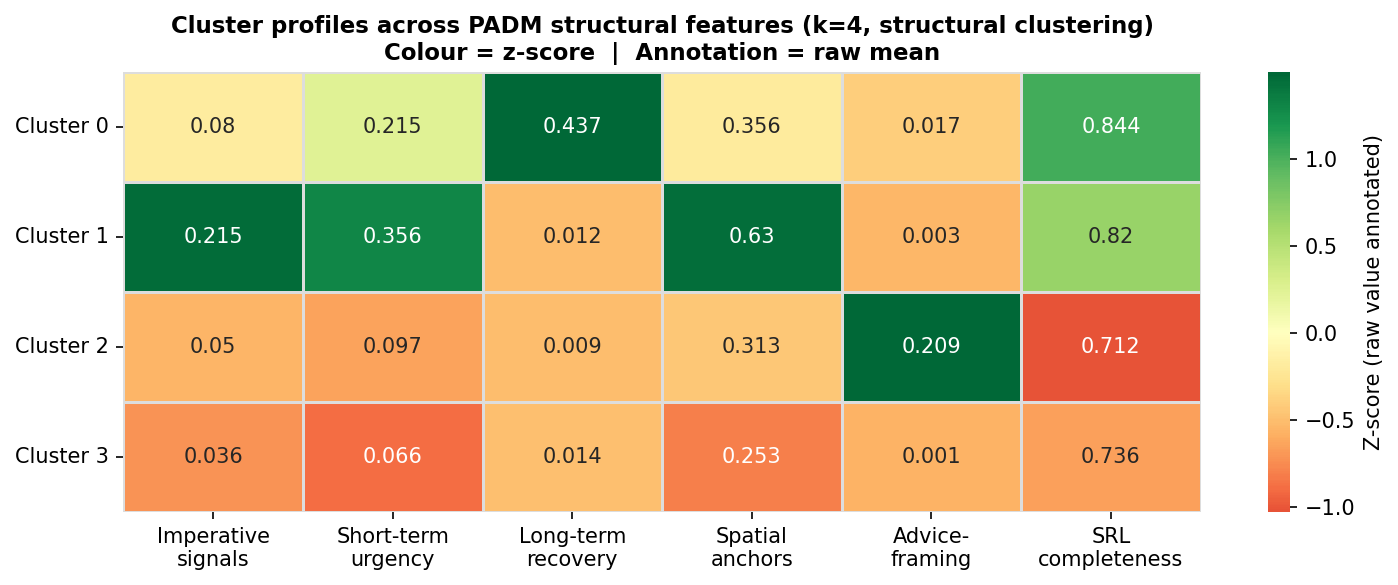
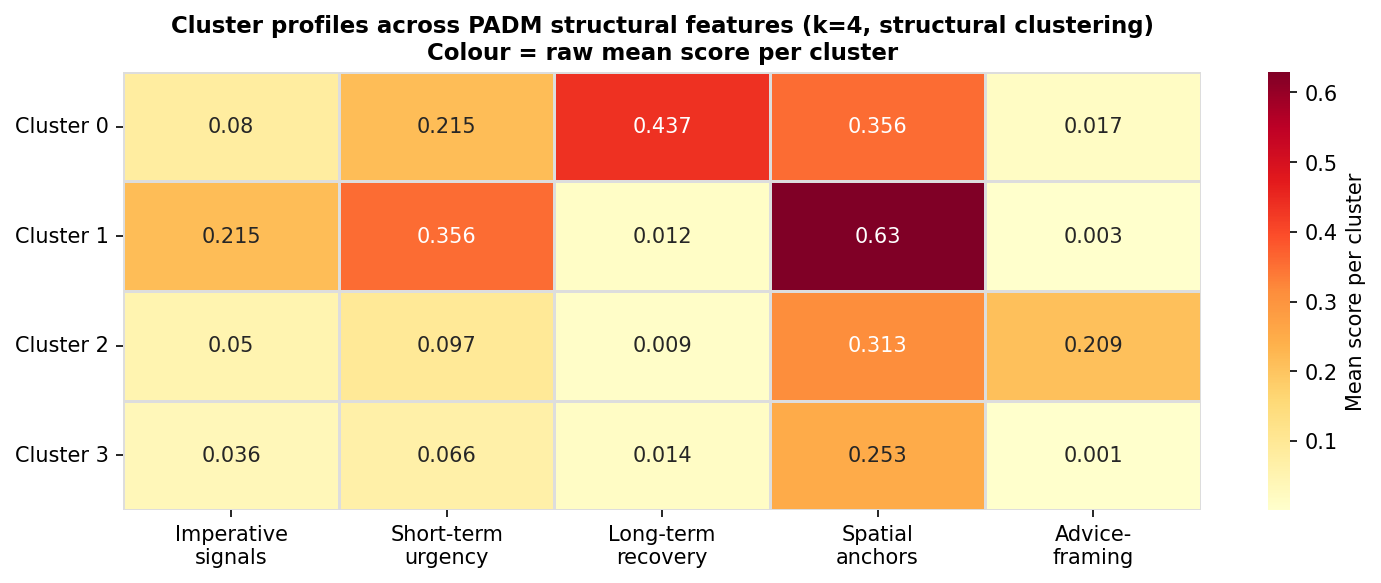
new generalizations

diff --git a/generate_visualizations.py b/generate_visualizations.py
@@ -194,7 +194,6 @@ def plot_padm_components(df: pd.DataFrame) -> None:
         'Imperative signals':  'mean_imperative_count',
         'Short-term urgency':  'mean_short_term_count',
         'Spatial anchors':     'mean_spatial_count',
-        'SRL completeness':    'mean_srl_complete',
         'Advice-framing':      'mean_advice',
     }
     missing = [c for c in components.values() if c not in df.columns]
@@ -325,24 +324,20 @@ def plot_cluster_padm_heatmap(df: pd.DataFrame) -> None:
         'mean_long_term_count':  'Long-term\nrecovery',
         'mean_spatial_count':    'Spatial\nanchors',
         'mean_advice':           'Advice-\nframing',
-        'mean_srl_complete':     'SRL\ncompleteness',
     }
     available = {k: v for k, v in feature_cols.items() if k in cs.columns}
     heat = cs[[*available.keys()]].rename(columns=available).astype(float)
 
-    # z-score each column so differences are visible across different scales
-    heat_z = (heat - heat.mean()) / heat.std().replace(0, 1)
-
     fig, ax = plt.subplots(figsize=(10, 4))
     sns.heatmap(
-        heat_z, ax=ax, cmap='RdYlGn', center=0,
+        heat, ax=ax, cmap='YlOrRd',
         annot=heat.round(3), fmt='g',
         linewidths=0.5, linecolor='#dddddd',
-        cbar_kws={'label': 'Z-score (raw value annotated)'},
+        cbar_kws={'label': 'Mean score per cluster'},
     )
     ax.set_title(
         'Cluster profiles across PADM structural features (k=4, structural clustering)\n'
-        'Colour = z-score  |  Annotation = raw mean',
+        'Colour = raw mean score per cluster',
         fontsize=11, fontweight='bold'
     )
     ax.set_ylabel('')

diff --git a/output/interpretations_report.md b/output/interpretations_report.md
@@ -2,7 +2,7 @@
 
 **Dataset:** 580 articles | 11 flood events | EN, ES, PT  
 **Framework:** Protective Action Decision Model (PADM) — Lindell & Perry (2012)  
-**Figures:** output/visualizations_report/
+**Figures:** output/clustering_graphs/
 
 ---
 
@@ -19,8 +19,6 @@ The key interpretive point is not simply that actionability is low on average, b
 `09_padm_components_by_language.png`
 
 This chart shows, for each PADM-relevant linguistic feature, the percentage of articles in which at least one sentence triggered that feature, broken down by language. It directly answers the research question by showing which elements of actionable communication the corpus routinely delivers and which it systematically omits.
-
-**SRL completeness** (agent + action + location co-present in the same sentence) is near-universal across all three languages (97–100%). This is the most important null result: the structural grammatical capacity for a complete directive is present in almost every article, but it is not being used to deliver actionable guidance. Articles describe who did what where, but not what *readers* should do where.
 
 **Spatial anchors** are present in 70–81% of articles — flood coverage consistently locates events geographically, which satisfies one PADM criterion (named location) but not the directive criterion (what to do there).
 